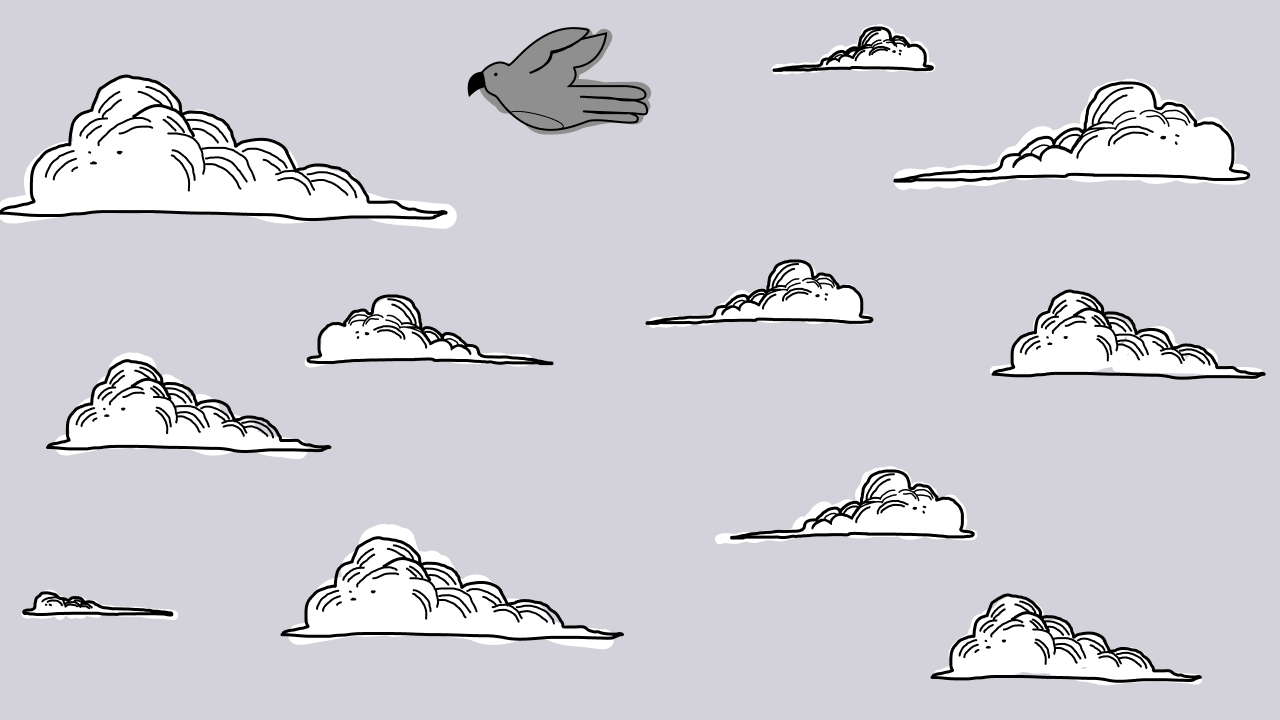
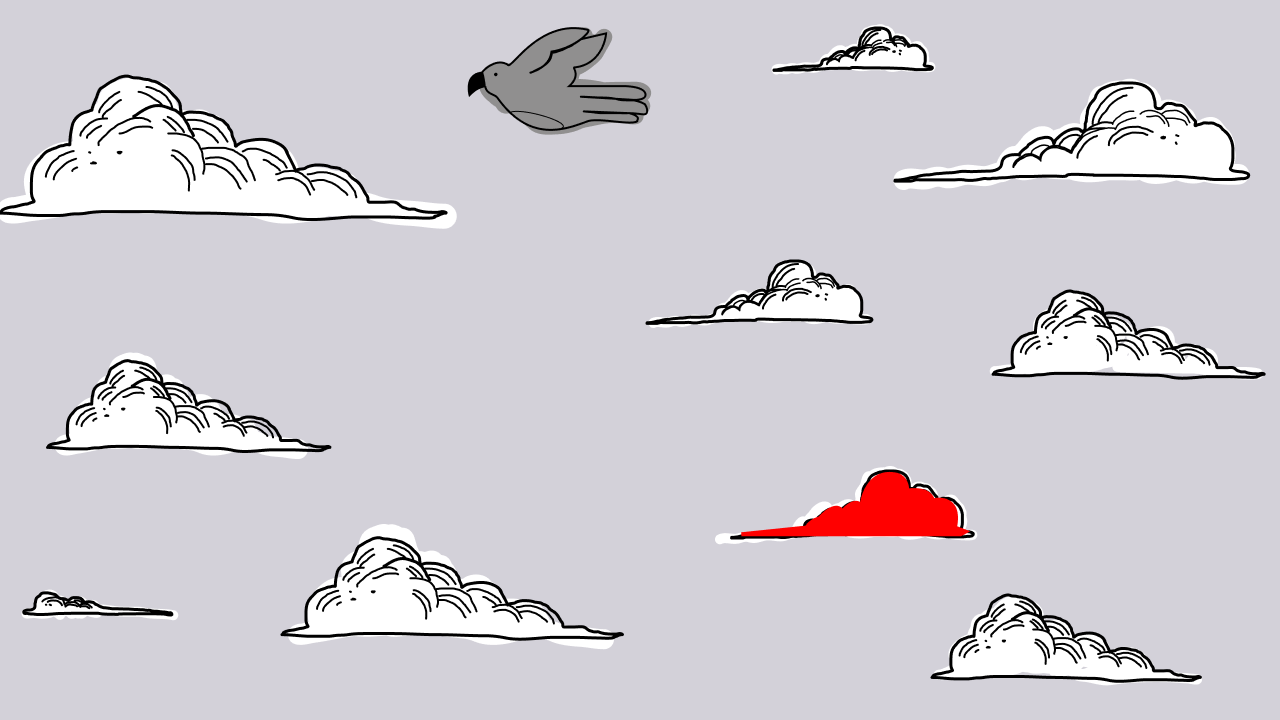
Murmelbahn

Changed region(s): [[0.2188, 0.3972, 0.4375, 0.5194], [0.5625, 0.6417, 0.75, 0.7639]]

diff --git a/Murmelbahn/Input/Map/Murmelbahn/sketch.js b/Murmelbahn/Input/Map/Murmelbahn/sketch.js
@@ -97,11 +97,12 @@ function setup() {
 
 function scene1() {
 	sceneBack.style["background"] = 'url("./frame1/background.png") no-repeat';
+	let wolken2, wolken3;
 	//ei
 	ei = new PolygonFromSVG(
 		world,
 		{
-			x: 880,
+			x: 120,
 			y: 0,
 			image: normal,
 			fromFile: "./eggState/pathei.svg",
@@ -109,6 +110,71 @@ function scene1() {
 		},
 		{ label: "Murmel", isStatic: false, friction: 0.1, density: 0.001 }
 	);
+
+	//Path
+	wolken2 = new PolygonFromSVG(
+		world,
+		{
+			x: 160,
+			y: 155,
+			fromFile: "./frame2/Clouds-Test-Section2.svg",
+			scale: 1.5,
+		},
+		{ isStatic: true, friction: 0.0 }
+	);
+	blocks.push(wolken2);
+
+	wolken2 = new PolygonFromSVG(
+		world,
+		{
+			x: 410,
+			y: 590,
+			fromFile: "./frame2/Clouds-Test-Section2.svg",
+			scale: 1.0,
+		},
+		{ isStatic: true, friction: 0.0 }
+	);
+	blocks.push(wolken2);
+
+	wolken3 = new PolygonFromSVG(
+		world,
+		{
+			x: 780,
+			y: 297,
+			fromFile: "./frame1/wolken2.svg",
+			scale: 1.0,
+		},
+		{ isStatic: true, friction: 0.0 }
+	);
+	blocks.push(wolken3);
+
+	wolken3 = new PolygonFromSVG(
+		world,
+		{
+			x: 880,
+			y: 510,
+			fromFile: "./frame1/wolken2.svg",
+			scale: 1.0,
+		},
+		{ isStatic: true, friction: 0.0 }
+	);
+	blocks.push(wolken3);
+
+	//Pusher
+	blocks.push(
+		new BlockCore(
+			world,
+			{
+				x: 750,
+				y: 305,
+				w: 200,
+				h: 40,
+				force: { x: -0.096, y: -0.046 },
+			},
+			{ isSensor: true, isStatic: true, angle: PI / -8 }
+		)
+	);
+
 	//Automatischer Szenen wechsler
 	blocks.push(
 		new BlockCore(
@@ -136,7 +202,7 @@ function scene2() {
 	ei = new PolygonFromSVG(
 		world,
 		{
-			x: 880,
+			x: 400,
 			y: 0,
 			image: normal,
 			fromFile: "./eggState/pathei.svg",
@@ -149,11 +215,22 @@ function scene2() {
 	wolken2 = new PolygonFromSVG(
 		world,
 		{
-			x: 640,
-			y: 360,
-			fromFile: "./frame2/wolken2.svg",
+			x: 180,
+			y: 100,
+			fromFile: "./frame2/Clouds-Test-Section2.svg",
 			scale: 1,
-			color: "red",
+		},
+		{ isStatic: true, friction: 0.0 }
+	);
+	blocks.push(wolken2);
+
+	wolken2 = new PolygonFromSVG(
+		world,
+		{
+			x: 465,
+			y: 310,
+			fromFile: "./frame2/Clouds-Test-Section2.svg",
+			scale: 0.8,
 		},
 		{ isStatic: true, friction: 0.0 }
 	);
@@ -218,7 +295,6 @@ function scene3() {
 				y: 140,
 				w: 200,
 				h: 40,
-				color: "red",
 				force: { x: -0.046, y: -0.016 },
 			},
 			{ isSensor: true, isStatic: true, angle: PI / -6 }
@@ -391,10 +467,8 @@ function onKeyDown(event) {
 			console.log("SPACE");
 
 			if (ei.body.velocity.y < -3.96) {
-				console.log("speed erreicht");
 			}
 			if (ei.body.velocity.y > -3.96) {
-				console.log("speed wir derhöht");
 				event.preventDefault();
 				Matter.Body.applyForce(ei.body, ei.body.position, {
 					x: 0.04,
